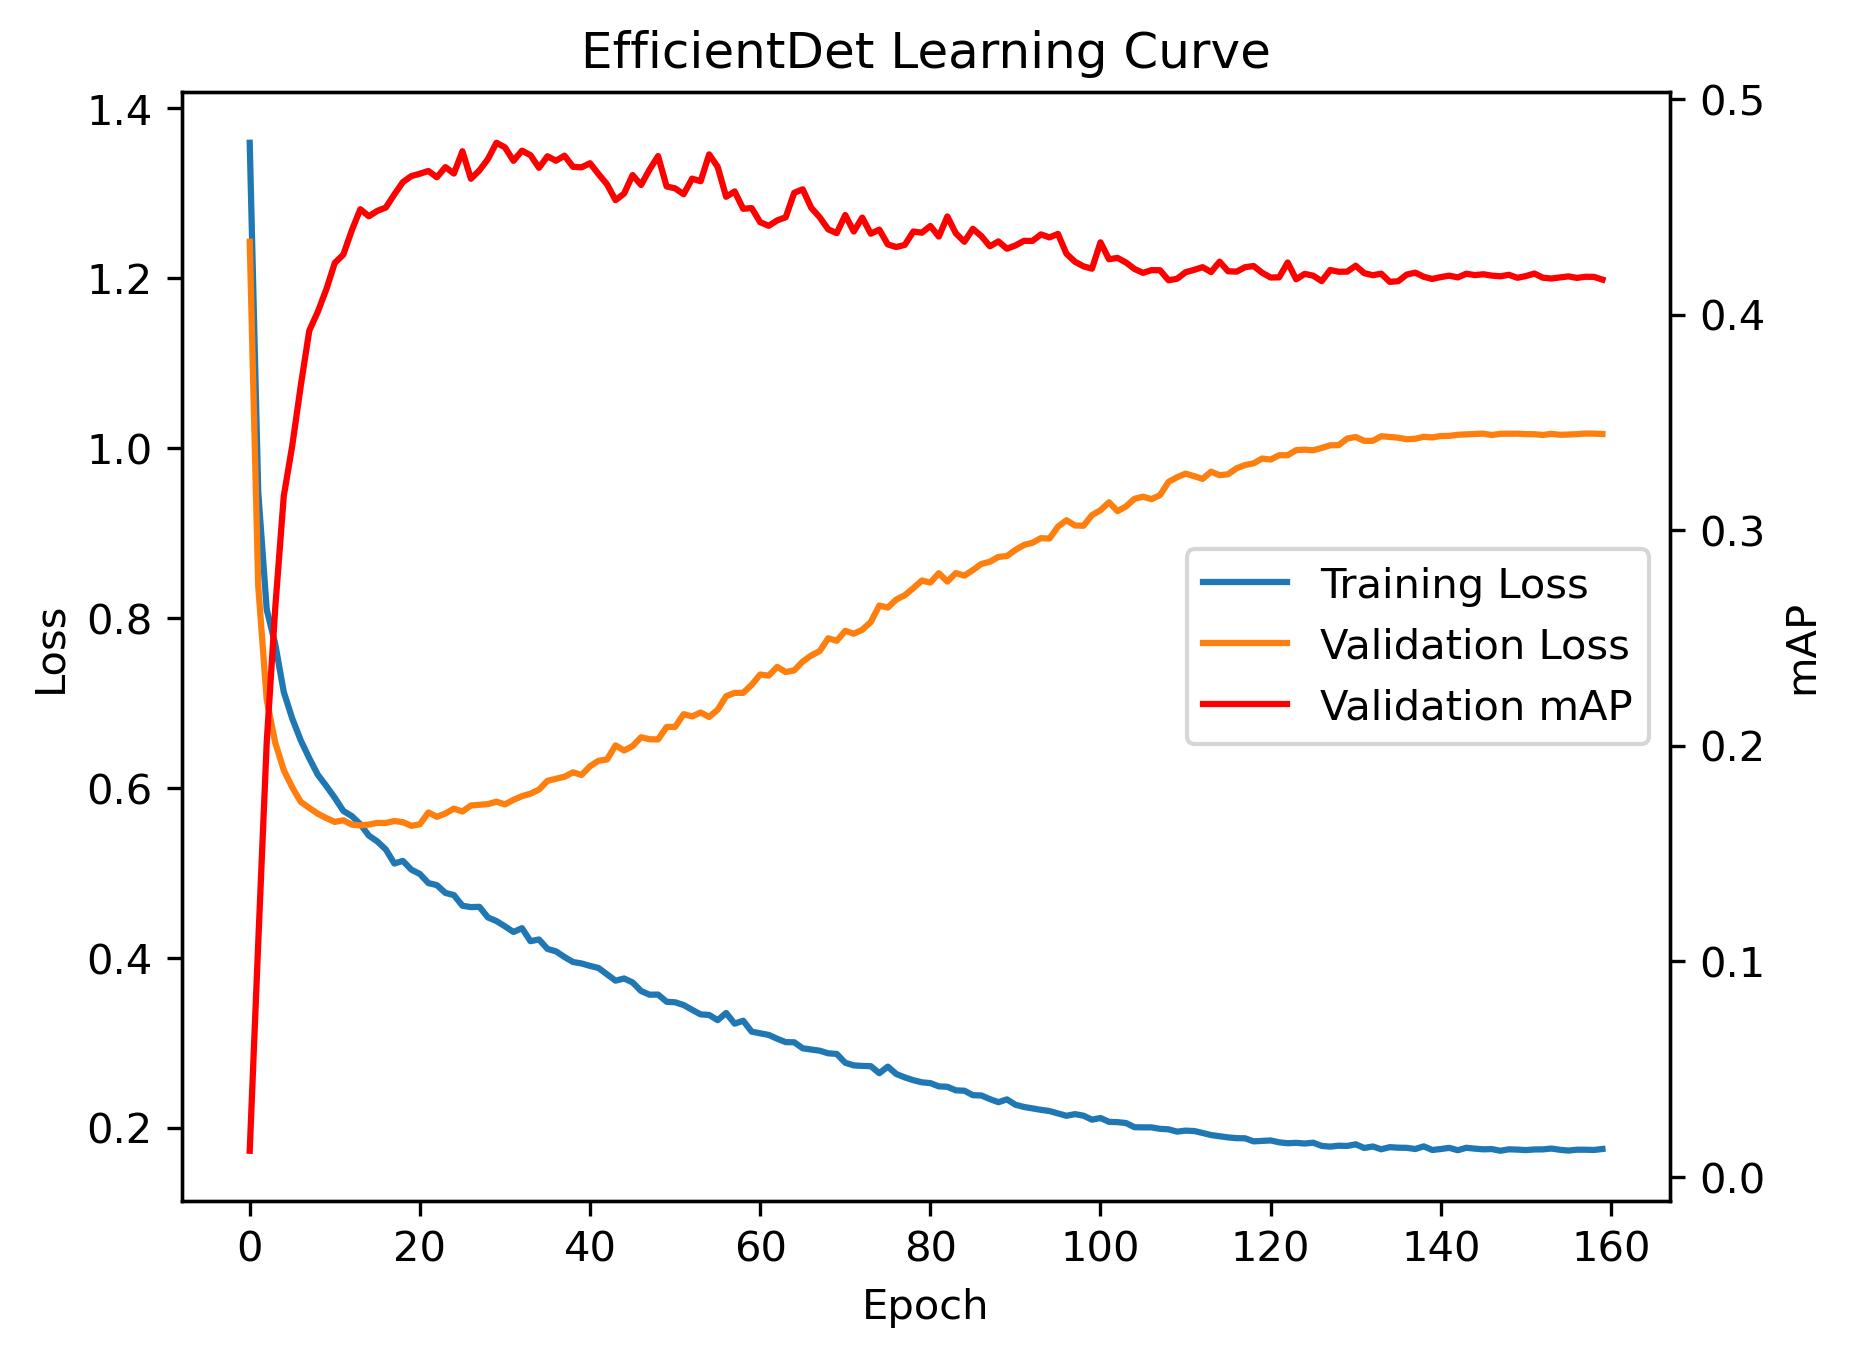
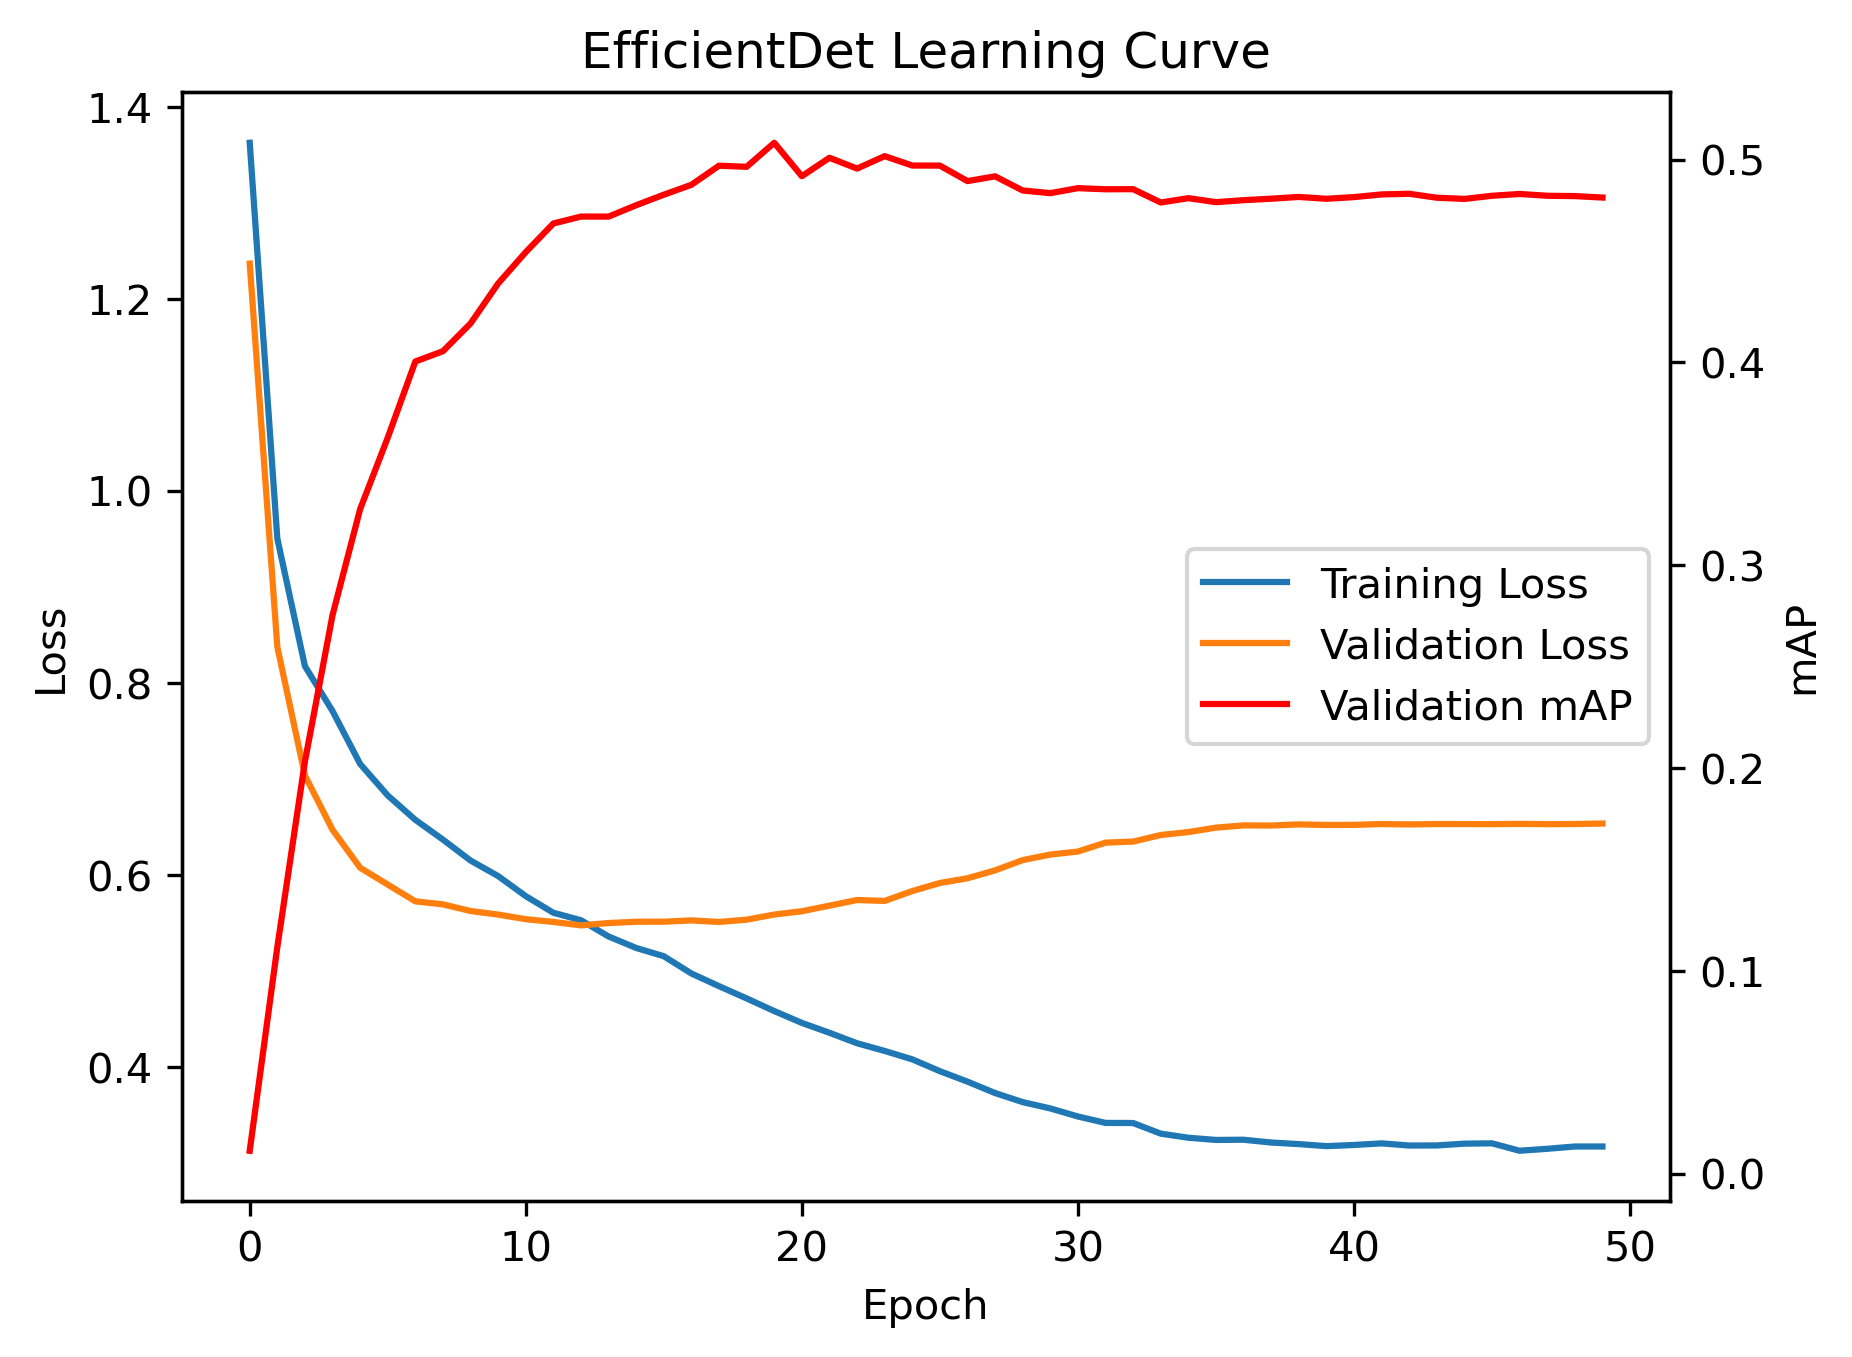
Add summary from latest run of EfficientDet with missing popcorn data and update learning curve

diff --git a/FoodforDeepThought/personal_folders/joe/efficientdet_analysis.py b/FoodforDeepThought/personal_folders/joe/efficientdet_analysis.py
@@ -5,7 +5,7 @@ import matplotlib.pyplot as plt
 
 
 def run():
-    df = pd.read_csv('summaries/summary1.csv', index_col=0)
+    df = pd.read_csv('summaries/summary2.csv', index_col=0)
     df.rename(columns={"train_loss": "Training Loss", "eval_loss": "Validation Loss", "eval_map": "Validation mAP"}, inplace=True)
     loss_df = df.iloc[:, :2]
     map_df = df.iloc[:, 2:]
